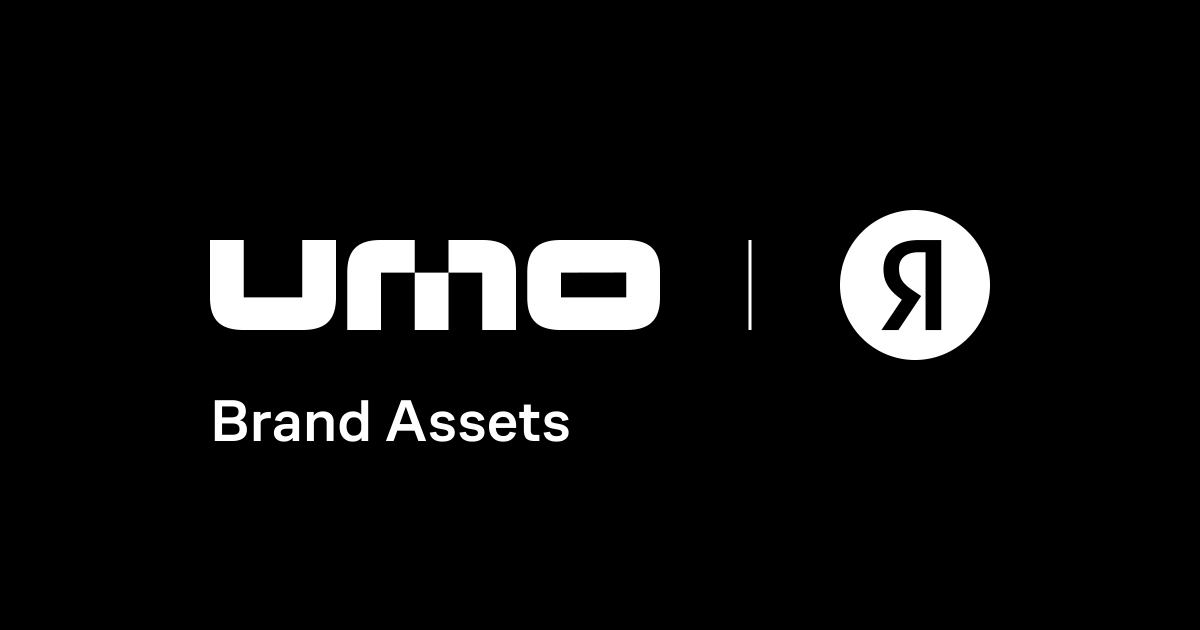
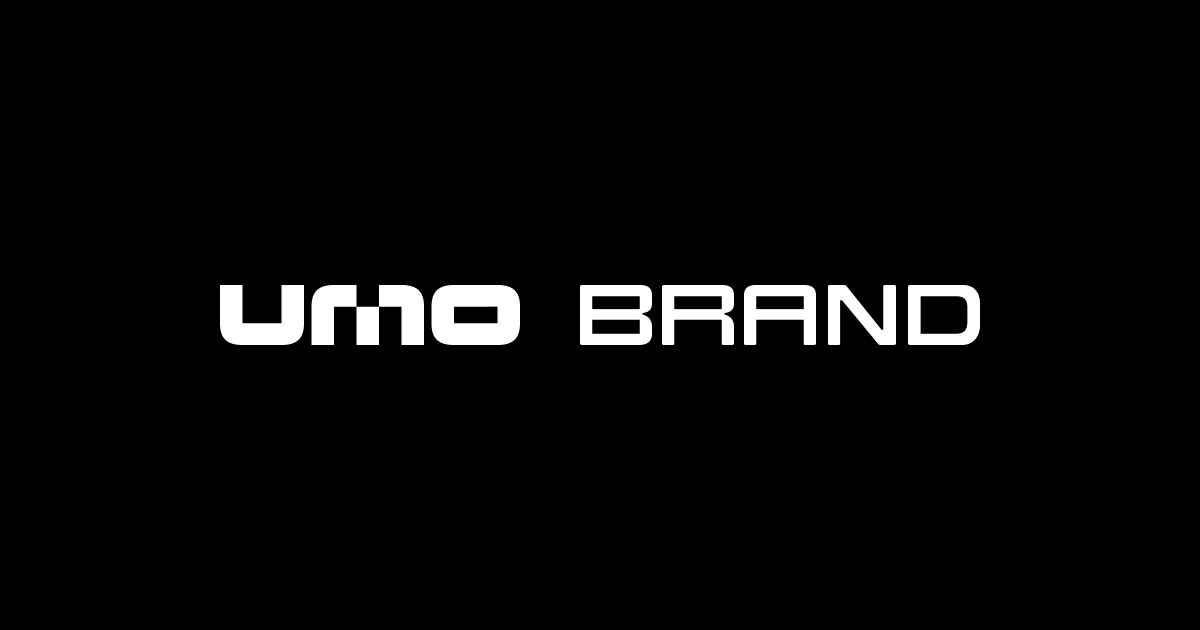
Titles, social image, old anchors redirected, nbsp after dictionary marks
- Page titles: «Стандарты бренда UMO» (in the HTML, so link previews get it too)
  and «Прайс-карта UMO» for the constructor
- Social image from Figma 4876:3660 (UMO BRAND, 1200×630), absolute og:image URL
- Renamed anchors (#dealer, #about, #intro) redirect to their current ids, on
  load and on a hash change
- Non-breaking space between ✓ / ✗ and the word in the mobile dictionary

Changed region(s): [[0.1542, 0.3317, 0.8325, 0.573], [0.1542, 0.6333, 0.4933, 0.7238]]

diff --git a/src/guide/Guide.tsx b/src/guide/Guide.tsx
@@ -74,6 +74,9 @@ const NAV: NavItem[] = [
   },
 ]
 
+/** Chapter anchors that were renamed after the guide went out, mapped to their current ids. */
+const OLD_ANCHORS: Record<string, string> = { dealer: 'retail', about: 'brand', intro: 'top' }
+
 const flatItems = (items: NavItem[]): NavItem[] => items.flatMap(i => [i, ...flatItems(i.children ?? [])])
 const ALL_IDS = flatItems(NAV).map(i => i.id)
 const TITLES: Record<string, string> = Object.fromEntries(flatItems(NAV).map(i => [i.id, i.title]))
@@ -516,8 +519,8 @@ function Dictionary() {
       </div>
       {DICTIONARY.map((row, i) => (
         <div key={i} className={`grid grid-cols-1 ${cols} gap-x-6 gap-y-2 border-t border-[#e6e6e6] py-4`}>
-          <p className="font-medium"><span className="md:hidden">✓ </span>{row.good}</p>
-          <p><span className="md:hidden">✗ </span>{row.bad}</p>
+          <p className="font-medium"><span className="md:hidden">✓&nbsp;</span>{row.good}</p>
+          <p><span className="md:hidden">✗&nbsp;</span>{row.bad}</p>
           <p className="text-black/60 md:text-black">{row.why}</p>
         </div>
       ))}
@@ -550,17 +553,29 @@ export default function Guide() {
   }, [menuOpen])
 
   useEffect(() => {
-    const prev = document.title
-    document.title = 'UMO — стандарты бренда 2026'
+    // Anchors renamed since links went out: send them to where that content lives now, and fix the address.
+    const current = () => {
+      const id = decodeURIComponent(window.location.hash.slice(1))
+      if (!(id in OLD_ANCHORS)) return id
+      const to = OLD_ANCHORS[id]
+      history.replaceState(null, '', to === 'top' ? window.location.pathname : `#${to}`)
+      return to
+    }
     // The page is lazy-loaded, so the browser's own jump to #hash on load finds nothing yet.
     // Jump again once CoFo Sans has loaded: the swap from the fallback font changes text heights above the target.
-    const id = decodeURIComponent(window.location.hash.slice(1))
+    const id = current()
     if (id) {
       const jump = () => document.getElementById(id)?.scrollIntoView()
       jump()
       document.fonts?.ready.then(jump)
     }
-    return () => { document.title = prev }
+    // An old anchor opened on the page that's already here: the browser finds nothing to jump to, so jump ourselves.
+    const onHash = () => {
+      if (!(decodeURIComponent(window.location.hash.slice(1)) in OLD_ANCHORS)) return
+      document.getElementById(current())?.scrollIntoView()
+    }
+    window.addEventListener('hashchange', onHash)
+    return () => window.removeEventListener('hashchange', onHash)
   }, [])
 
   return (

diff --git a/src/App.tsx b/src/App.tsx
@@ -126,6 +126,12 @@ export default function App() {
       .catch(() => setQrSvg(undefined))
   }, [url])
 
+  useEffect(() => {
+    const prev = document.title
+    document.title = 'Прайс-карта UMO'
+    return () => { document.title = prev }
+  }, [])
+
   const previewRef = useRef<HTMLDivElement>(null)
   useEffect(() => {
     const el = previewRef.current

diff --git a/AGENTS.md b/AGENTS.md
@@ -52,7 +52,7 @@ The UMO 5 / UMO 8 ad banners in Ключевой образ are `Poster` compone
 
 Body copy (`Text`) takes its width from its length on the 12-column Figma grid: up to 150 characters 6 columns (432px), up to 300 — 8 (600px), longer — 9 (678px). Don't set widths by hand; texts paired side by side sit in a grid with `*:max-w-none` and fill their cells.
 
-Vertical rhythm is fluid: `--spacing-section` (96px on a 375px phone → 216px at the 1440px Figma frame) and `--spacing-chapter` (144 → 288px) in `src/index.css`, used as `gap-section` between sections and as the extra top padding of a `Chapter`; don't hard-code breakpoint gaps between blocks. Each chapter is a `Chapter` (id, title, then its `Section`s). A section's opening picture goes above its heading, with the section anchor on the picture (Позиционирование, Фотография). Chapters stay two levels deep — chapter, then its sections; only Точка продаж groups its sections under a 40px `H1Small` (Полиграфия), since it will also cover the outside and inside of the store. Anchor ids sit on an empty marker above the title, so keep new chapters inside `Chapter` rather than a bare `<h2 id>`.
+Vertical rhythm is fluid: `--spacing-section` (96px on a 375px phone → 216px at the 1440px Figma frame) and `--spacing-chapter` (144 → 288px) in `src/index.css`, used as `gap-section` between sections and as the extra top padding of a `Chapter`; don't hard-code breakpoint gaps between blocks. Each chapter is a `Chapter` (id, title, then its `Section`s). A section's opening picture goes above its heading, with the section anchor on the picture (Позиционирование, Фотография). Chapters stay two levels deep — chapter, then its sections; only Точка продаж groups its sections under a 40px `H1Small` (Полиграфия), since it will also cover the outside and inside of the store. Anchor ids sit on an empty marker above the title, so keep new chapters inside `Chapter` rather than a bare `<h2 id>`. Links to the guide have gone out, so when an anchor id changes, add the old one to `OLD_ANCHORS` in `Guide.tsx`: it is redirected to the new id on load and on a hash change.
 
 Navigation follows Figma section TOC (node 4865:1079). The hero at the top of the page is not in the list: the logo leads there. Платформа бренда (the brand foundations: positioning, vision, mission, audience and voice) has no title of its own: the statement under the hero («UMO — это автомобильный бренд…») stands in for it and carries the `brand` anchor, so it isn't a `Chapter`. On `lg`+ the sidebar lists chapters with only the one you're reading open; the «Развернуть / Свернуть» row (`TocToggle`, menu and cross icons from `src/icons/toc.ts`, the same as on the mobile bar) is pinned to the bottom of the screen, so it doesn't move as the open chapter changes the list's height. The choice is remembered in `localStorage`. Below `lg` the header holds just the logo; a bar fixed at the bottom shows a menu icon and the title of the heading you're reading (any level, from `NAV`; «Стандарты бренда» above the first one) and opens the full, expanded contents between header and bar, with «Свернуть» at the foot. Header, contents and bar keep the desktop's 24px padding down to `md` and drop to 16px below it.
 
